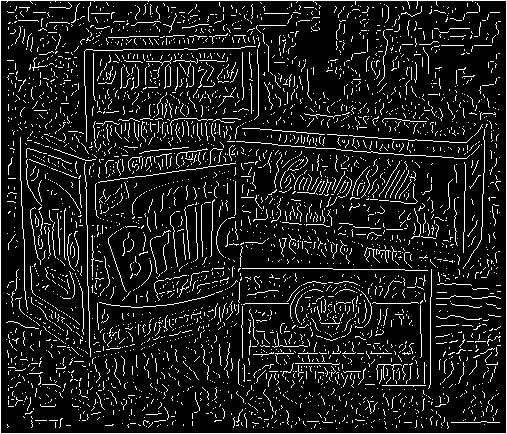
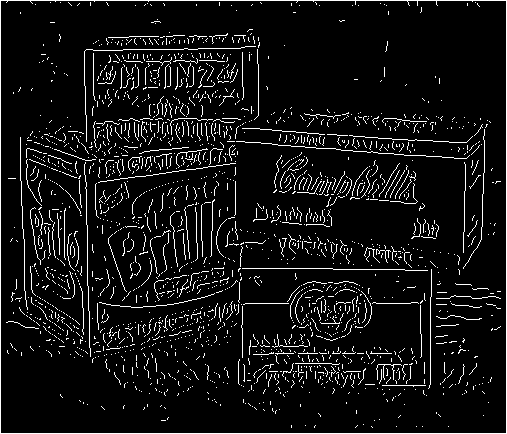
Parameter tuning 1

diff --git a/assgn1/python/houghScript.py b/assgn1/python/houghScript.py
@@ -12,7 +12,7 @@ resultsdir = '../results'   # the directory for dumping results
 
 # parameters
 sigma     = 2
-threshold = 0.03
+threshold = 0.1
 rhoRes    = 2
 thetaRes  = np.pi / 90
 nLines    = 15
